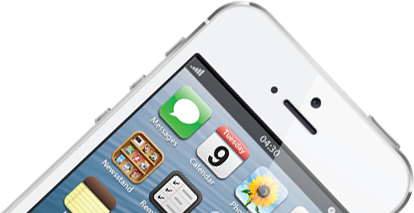
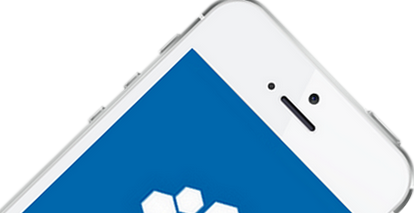
Atualizacao de imagens e css
Atualizacao de imagens e css

diff --git a/PortalNotiUFG/WebContent/css/style.css b/PortalNotiUFG/WebContent/css/style.css
@@ -99,7 +99,7 @@ body{
 	float: right;
 	width: 47.3%;
 	text-align: left;
-	background: url(../images/img-sprit2.png) no-repeat;
+	background: url(../images/img-sprit.png) no-repeat;
 	height: 598px;
 	margin-bottom: 1.5em;
 }
@@ -118,13 +118,20 @@ body{
 	width: 180px;
 	height: 53px;
 	display: block;
-	background: url(../images/img-sprit2.png) no-repeat #F2F4F5 -172px -879px;
+	background: url(../images/img-sprit.png) no-repeat #F2F4F5 -172px -879px;
 }
 .info-btns ul li:nth-child(2) a{
 	width: 180px;
-	height: 53px;
+	height: 59px;
 	display: block;
-	background: url(../images/img-sprit2.png) no-repeat #F2F4F5 -172px -826px;
+	background: url(../images/en_generic_rgb_wo_60.png) no-repeat ;
+}
+
+.info-btns ul li:nth-child(3) a{
+	width: 180px;
+	height: 59px;
+	display: block;
+	background: url(../images/logo-windows-phone-8.png) no-repeat ;
 }
 .info-btns{
 	margin-top: 1.3em;
@@ -154,14 +161,14 @@ body{
 	height: 50px;
 	width: 53px;
 	display: block;
-	background: url(../images/img-sprit2.png) no-repeat #F2F4F5 0px -826px;
+	background: url(../images/img-sprit.png) no-repeat #F2F4F5 0px -826px;
 	vertical-align: middle;
 }
 .icon1 span:hover{
 	height: 50px;
 	width: 53px;
 	display: block;
-	background: url(../images/img-sprit2.png) no-repeat #F2F4F5 0px -879px;
+	background: url(../images/img-sprit.png) no-repeat #F2F4F5 0px -879px;
 	vertical-align: middle;
 }
 .icon2{
@@ -182,14 +189,14 @@ body{
 	height: 50px;
 	width: 53px;
 	display: block;
-	background: url(../images/img-sprit2.png) no-repeat #F2F4F5 -102px -827px;
+	background: url(../images/img-sprit.png) no-repeat #F2F4F5 -102px -827px;
 	vertical-align: middle;
 }
 .icon2 span:hover{
 	height: 50px;
 	width: 53px;
 	display: block;
-	background: url(../images/img-sprit2.png) no-repeat #F2F4F5 -102px -880px;
+	background: url(../images/img-sprit.png) no-repeat #F2F4F5 -102px -880px;
 	vertical-align: middle;
 }
 .icon3{
@@ -210,14 +217,14 @@ body{
 	height: 50px;
 	width: 53px;
 	display: block;
-	background: url(../images/img-sprit2.png) no-repeat #F2F4F5 -51px -828px;
+	background: url(../images/img-sprit.png) no-repeat #F2F4F5 -51px -828px;
 	vertical-align: middle;
 }
 .icon3 span:hover{
 	height: 50px;
 	width: 53px;
 	display: block;
-	background: url(../images/img-sprit2.png) no-repeat #F2F4F5 -51px -881px;
+	background: url(../images/img-sprit.png) no-repeat #F2F4F5 -51px -881px;
 	vertical-align: middle;
 }
 .top-grid{
@@ -253,13 +260,13 @@ body{
 	height: 12px;
 	width: 12px;
 	display: inline-block;
-	background: url(../images/img-sprit2.png) no-repeat -9px -814px;
+	background: url(../images/img-sprit.png) no-repeat -9px -814px;
 	vertical-align: middle;
 	margin-left: 3px;
 }
 .btn span:hover{
 	color:#000;
-	background: url(../images/img-sprit2.png) no-repeat -21px -814px;
+	background: url(../images/img-sprit.png) no-repeat -21px -814px;
 }
 .btn:hover{
 	color:#000;
@@ -277,7 +284,7 @@ body{
 	float: left;
 	width: 29%;
 	text-align: right;
-	background: url(../images/img-sprit2.png) no-repeat 63px 0px;
+	background: url(../images/img-sprit.png) no-repeat 63px 0px;
 	height: 598px;
 }
 .mid-grid-top-info{
@@ -396,7 +403,7 @@ body{
 	height: 48px;
 	border: none;
 	text-indent: 100%;
-	background: url(../images/img-sprit2.png) no-repeat 0px -938px;
+	background: url(../images/img-sprit.png) no-repeat 0px -938px;
 }
 #toTopHover {
 	width: 48px;
